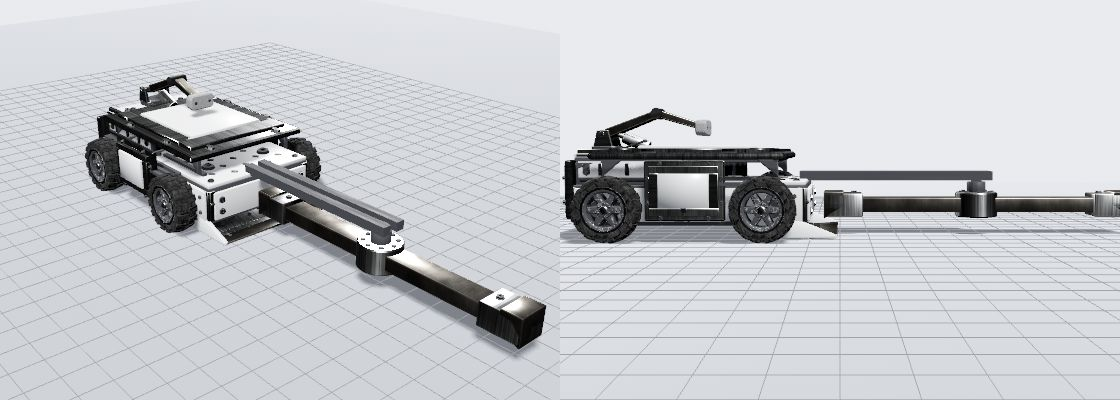
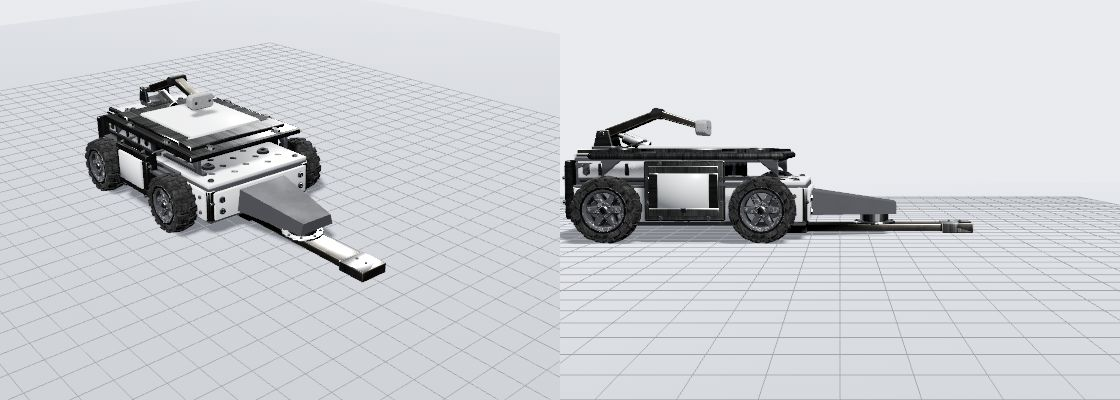
WIP: undercutter bar renders for the page (round 2 images kept as *-round2), notes where I stopped
Claude-Session: https://claude.ai/code/session_01Ug4FwDcH494f9qsscef8vF

Changed region(s): [[0.1562, 0.39, 0.5, 0.9], [0.6875, 0.42, 1.0, 0.6]]

diff --git a/docs/wave-d-fitment2-notes.md b/docs/wave-d-fitment2-notes.md
@@ -156,3 +156,5 @@ with every golden equal to main's. (A suite run alongside the fitment checker ha
 pause and the axe wind-up check fail on timing under load; each passes alone and in the
 clean run.) Not pushed or merged. Open: the ring collider in real play (0.61-0.72 m), the
 2 m bar spinner machine in the arenas, no phone check.
+
+WIP (1 Oct, stopped at the owner's limit): bar spinner is now a 0.70 m undercutter under a weapon block (box 1.40 m long, gauntlet box 14-4, wedge 16-2, toughness 1.5), committed and main a2fa1b0 merged; NOT yet done: the fitment re-check, the page's bar section (new images are in docs/look/fitment/pass2/bar-*-undercutter*.jpg) and the full suite.
